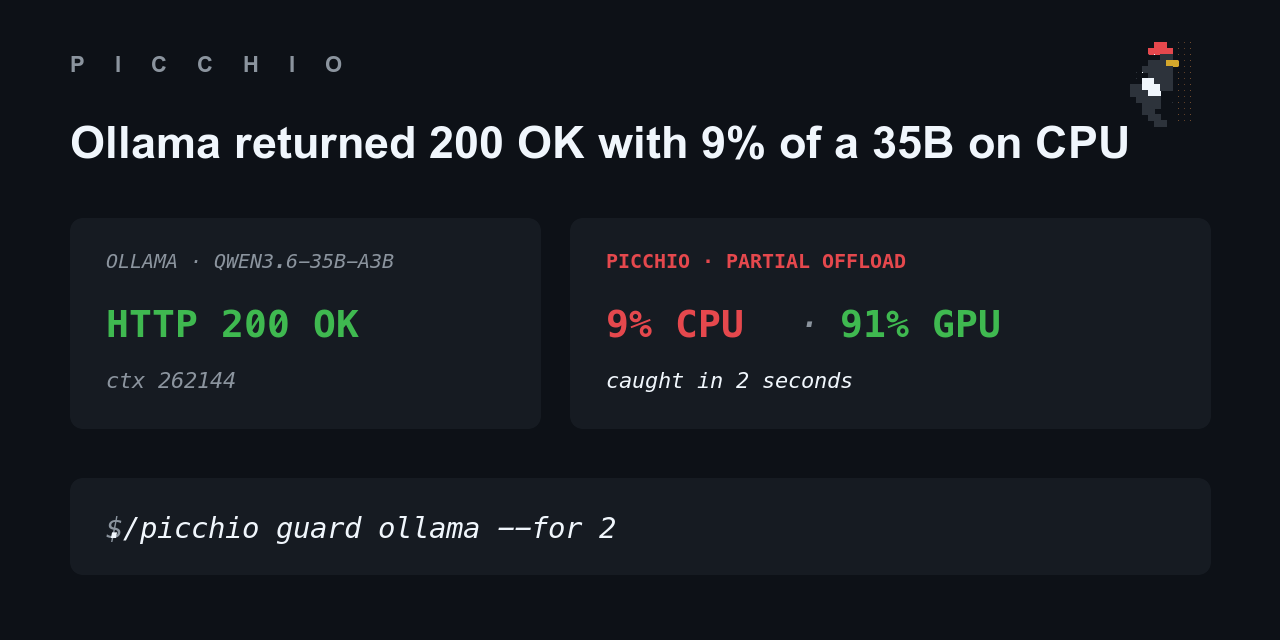
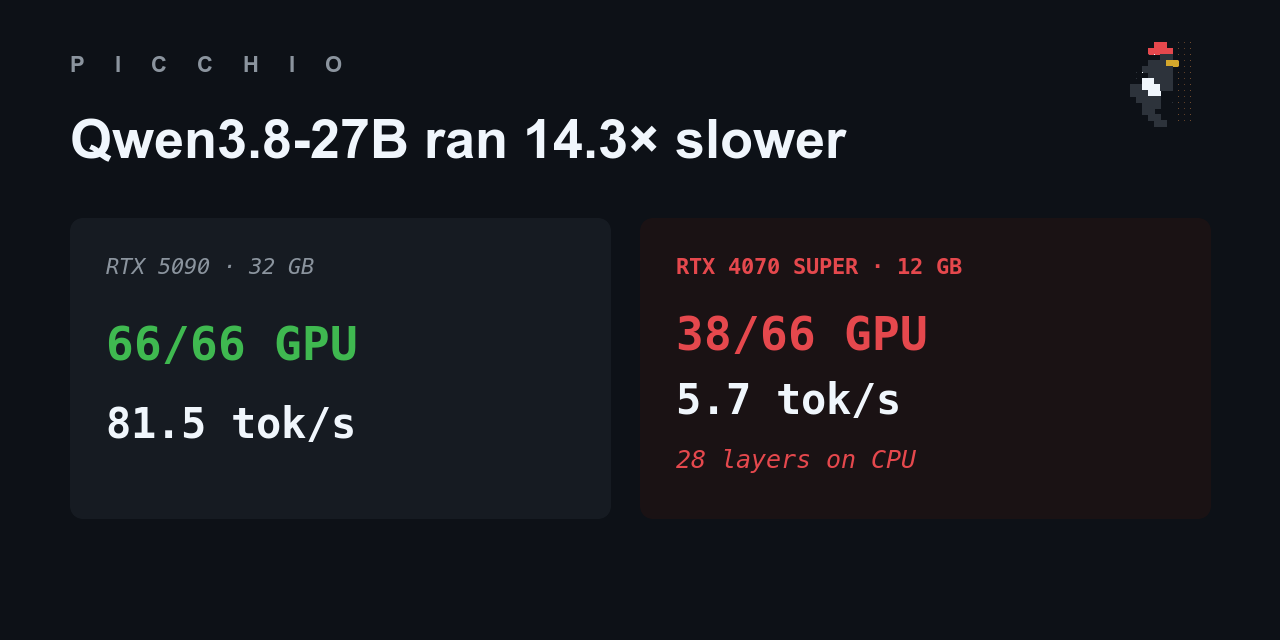
docs: update

diff --git a/docs/index.html b/docs/index.html
@@ -3,16 +3,16 @@
 <head>
   <meta charset="utf-8">
   <meta name="viewport" content="width=device-width, initial-scale=1">
-  <title>Picchio — catch local LLM CPU fallback</title>
-  <meta name="description" content="Run Picchio once to see GPU placement, prefill, decode, memory and power behind your local LLM speed.">
+  <title>Picchio: catch Qwen3.8-27B spilling into the CPU</title>
+  <meta name="description" content="Qwen3.8-27B decoded at 81.5 tok/s with 66/66 layers on GPU and 5.7 tok/s with 28 layers on CPU. Run Picchio to see which one you have.">
   <meta property="og:type" content="website">
   <meta property="og:url" content="https://logxio.github.io/picchio/">
-  <meta property="og:title" content="CPU fallback: prefill 22× slower, decode only 1.7×">
-  <meta property="og:description" content="Compare GPU placement, prefill, decode, memory and power across Apple M5, RTX 4090 and RTX 5090.">
+  <meta property="og:title" content="Qwen3.8-27B ran 14.3× slower with 28 layers on CPU">
+  <meta property="og:description" content="Both runs completed. Picchio caught 66/66 GPU layers becoming 38/66.">
   <meta property="og:image" content="https://logxio.github.io/picchio/social-preview.png">
   <meta name="twitter:card" content="summary_large_image">
-  <meta name="twitter:title" content="CPU fallback: prefill 22× slower, decode only 1.7×">
-  <meta name="twitter:description" content="Compare GPU placement, prefill, decode, memory and power across Apple M5, RTX 4090 and RTX 5090.">
+  <meta name="twitter:title" content="Qwen3.8-27B ran 14.3× slower with 28 layers on CPU">
+  <meta name="twitter:description" content="Both runs completed. Picchio caught 66/66 GPU layers becoming 38/66.">
   <meta name="twitter:image" content="https://logxio.github.io/picchio/social-preview.png">
   <style>
     :root {
@@ -37,13 +37,12 @@
     .star:hover, .star:focus-visible { color: var(--green-hover); }
     main { padding: 64px 0 96px; }
     h1 { max-width: 920px; margin: 0; font-family: "Iowan Old Style", "Palatino Linotype", Georgia, serif; font-size: clamp(48px, 7.8vw, 82px); font-weight: 600; line-height: .98; letter-spacing: -.05em; }
-    .proof { display: grid; grid-template-columns: 1.2fr repeat(3, 1fr); gap: 12px; margin-top: 52px; }
+    .proof { display: grid; grid-template-columns: repeat(2, 1fr); gap: 12px; margin-top: 52px; }
     .proof > div { min-width: 0; padding: 22px 18px; background: #ffffff; }
     .label { display: block; margin-bottom: 10px; color: var(--green); font-family: var(--mono); font-size: 12px; font-weight: 800; letter-spacing: .12em; text-transform: uppercase; }
-    .value { font-family: var(--mono); font-size: clamp(20px, 2.8vw, 32px); font-weight: 800; white-space: nowrap; }
+    .value { font-family: var(--mono); font-size: clamp(19px, 2.2vw, 26px); font-weight: 800; white-space: nowrap; }
     .gpu { color: var(--green); }
     .cpu { color: var(--red); }
-    .finding { max-width: 760px; margin: 34px 0 0; font-family: "Iowan Old Style", "Palatino Linotype", Georgia, serif; font-size: clamp(22px, 3vw, 30px); line-height: 1.35; }
     section { margin-top: 88px; }
     .section-head { margin-bottom: 20px; }
     h2 { margin: 0; font-family: "Iowan Old Style", "Palatino Linotype", Georgia, serif; font-size: clamp(34px, 4.8vw, 52px); font-weight: 600; letter-spacing: -.035em; }
@@ -73,7 +72,9 @@
       .shell { width: min(100% - 28px, 960px); }
       header { padding: 20px 0; }
       main { padding-top: 42px; }
-      .proof { grid-template-columns: 1fr 1fr; }
+      h1 { font-size: clamp(40px, 12vw, 52px); line-height: 1; overflow-wrap: anywhere; }
+      .proof { grid-template-columns: 1fr; }
+      .value { white-space: normal; }
       .submit-actions { align-items: flex-start; flex-direction: column; }
     }
   </style>
@@ -85,16 +86,17 @@
       <a class="star" href="https://github.com/logxio/picchio">Star on GitHub ↗</a>
     </header>
     <main>
-      <h1>I caught a local LLM returning 200 OK while running 0 of 33 layers on the GPU.</h1>
+      <h1>Qwen3.8-27B ran 14.3× slower when it spilled into the CPU.</h1>
 
-      <div class="proof" aria-label="Same-file GPU and CPU comparison">
-        <div><span class="label">Placement</span><span class="value"><span class="gpu">33/33</span> → <span class="cpu">0/33</span></span></div>
-        <div><span class="label">Prefill</span><span class="value">22× slower</span></div>
-        <div><span class="label">Decode</span><span class="value">1.7× slower</span></div>
-        <div><span class="label">HTTP</span><span class="value">200 both</span></div>
+      <div class="proof" aria-label="Same Qwen3.8-27B file on two NVIDIA cards">
+        <div><span class="label">RTX 5090 · 32 GB</span><span class="value"><span class="gpu">66/66 GPU</span> · 81.5 tok/s</span></div>
+        <div><span class="label">RTX 4070 SUPER · 12 GB</span><span class="value"><span class="cpu">38/66 GPU</span> · 5.7 tok/s</span></div>
       </div>
 
-      <p class="finding">I ran the same 9B file twice on an M5. At 33/33 GPU layers, prefill hit 588.0 tok/s. At 0/33, it fell to 26.8. Both requests returned HTTP 200.</p>
+      <div class="actions">
+        <a href="https://github.com/logxio/picchio/releases/tag/v1.0.0">Run it on your model ↗</a>
+        <a href="https://github.com/logxio/picchio/blob/main/examples/windows-4070s-27b.txt">Read the 12 GB receipt ↗</a>
+      </div>
 
       <section id="submit-result">
         <div class="section-head">

diff --git a/src/picchio_core/selftest.py b/src/picchio_core/selftest.py
@@ -592,9 +592,9 @@ def run_selftests(entry_argv):
             demo = " ".join(svg_receipt("picchio-demo.svg", 0, 430))
             check("visual_results_fresh",
                   all(value in demo for value in (
-                      "Qwen3.8-27B", "38/66 layers on GPU",
-                      "28 layers on CPU", "81.5 tok/s", "5.7 tok/s",
-                      "14.3× slower decode")) and
+                      "Qwen3.8-27B", "28 of 66 layers on CPU",
+                      "66/66 GPU", "38/66 GPU", "81.5 tok/s",
+                      "5.7 tok/s", "14.3× slower")) and
                   svg_receipt("healthy-verdict.svg", 69, 369) ==
                   example_lines("healthy-metal.txt") and
                   svg_receipt("cpu-fallback-verdict.svg", 69, 369) ==

diff --git a/scripts/build_registry.py b/scripts/build_registry.py
@@ -15,6 +15,10 @@ from picchio import parse_block  # noqa: E402
 
 
 BENCHMARKS = (
+    "linux-5090-27b.txt",
+    "windows-4070s-27b.txt",
+    "windows-4070s-cuda.txt",
+    "windows-4070s-cpu-build.txt",
     "healthy-metal.txt",
     "cpu-fallback.txt",
     "ollama-qwen35.txt",
@@ -23,7 +27,6 @@ BENCHMARKS = (
     "linux-5090-cuda.txt",
     "linux-5090-vulkan-nonce.txt",
     "linux-5090-ollama-nonce.txt",
-    "linux-5090-27b.txt",
     "ollama-35b.txt",
 )
 

diff --git a/README.md b/README.md
@@ -2,7 +2,7 @@
 
 <img src="assets/picchio-mark-a.svg" width="96" alt="pixel woodpecker on a trunk">
 
-<h1>Qwen3.8-27B ran 14× slower when 28 layers spilled to the CPU</h1>
+<h1>Catch local LLMs spilling into the CPU</h1>
 
 <p>
 <a href="https://github.com/logxio/picchio/actions/workflows/selftest.yml"><img src="https://github.com/logxio/picchio/actions/workflows/selftest.yml/badge.svg" alt="selftest"></a>
@@ -10,27 +10,11 @@
 <img src="https://img.shields.io/badge/python-3.9%2B%2C%20stdlib%20only-3776ab" alt="python 3.9+, stdlib only">
 </p>
 
-<p><a href="#run-it">Run it</a> · <a href="https://logxio.github.io/picchio/">Browse real results</a> · <a href="#send-me-your-machine">Add your machine</a></p>
+<p><a href="#run-it">Run it</a> · <a href="https://logxio.github.io/picchio/">Browse results</a> · <a href="#send-me-your-machine">Add your machine</a></p>
 
-<img src="assets/picchio-demo.svg" width="680" alt="Qwen3.8-27B returns HTTP 200 while Picchio catches 28 of 66 layers running on the CPU and a 14 times decode slowdown">
+<img src="assets/picchio-demo.svg" width="680" alt="Qwen3.8-27B completes while Picchio catches 28 of 66 layers running on the CPU and a 14 times decode slowdown">
 
 </div>
-
-**The same Qwen3.8-27B file returned HTTP 200 on both cards: 66/66 GPU layers
-and 81.5 tok/s on 32 GB; 38/66 and 5.7 tok/s on 12 GB.**
-
-<table align="center">
-  <thead>
-    <tr><th>card</th><th align="right">layers on GPU</th><th align="right">decode</th></tr>
-  </thead>
-  <tbody>
-    <tr><td>RTX 5090, 32 GB</td><td align="right">66/66</td><td align="right">81.5 tok/s</td></tr>
-    <tr><td>RTX 4070 SUPER, 12 GB</td><td align="right">38/66</td><td align="right">5.7 tok/s</td></tr>
-  </tbody>
-</table>
-
-Picchio printed `PARTIAL OFFLOAD. 28 layers sat on CPU` and
-`memory fit: saw 11069 MiB free, gave 38/66 layers`.
 
 ## Run it
 
@@ -80,9 +64,9 @@ Add `--ctx 262144` when the problem only appears at a larger context.
 - GPU activity, memory, power and energy per generated token
 - the first setting that changed when you compare two runs
 - a clear `HEALTHY`, `CPU FALLBACK` or `PARTIAL OFFLOAD` result
-- a paste-ready GitHub Issue with OS, driver, model SHA, GPU use and real rates
+- a paste-ready GitHub Issue with your machine, model, GPU placement and measured rates
 
-## Compare real machines
+## Compare machines
 
 I measured these with Picchio:
 
@@ -106,7 +90,7 @@ in [examples/](examples/).
 - Ollama: CPU/GPU weight split and timing
 - macOS: Apple GPU activity, memory, power and energy per token
 - NVIDIA on Linux and Windows: GPU activity, memory, power and energy per token through NVML
-- AMD Linux: GPU activity and memory through amdgpu sysfs. **AMD readings are reference-only for now. I am looking for real Radeon runs from the community; an AMD verdict block is the contribution I want most.**
+- AMD Linux: GPU activity and memory through amdgpu sysfs. **AMD readings are reference-only, and I want results from real Radeon hardware.**
 
 Point Picchio at a GGUF path, an Ollama tag or a running llama-server URL.
 The result tells you where the model ran and which number is safe to compare.
